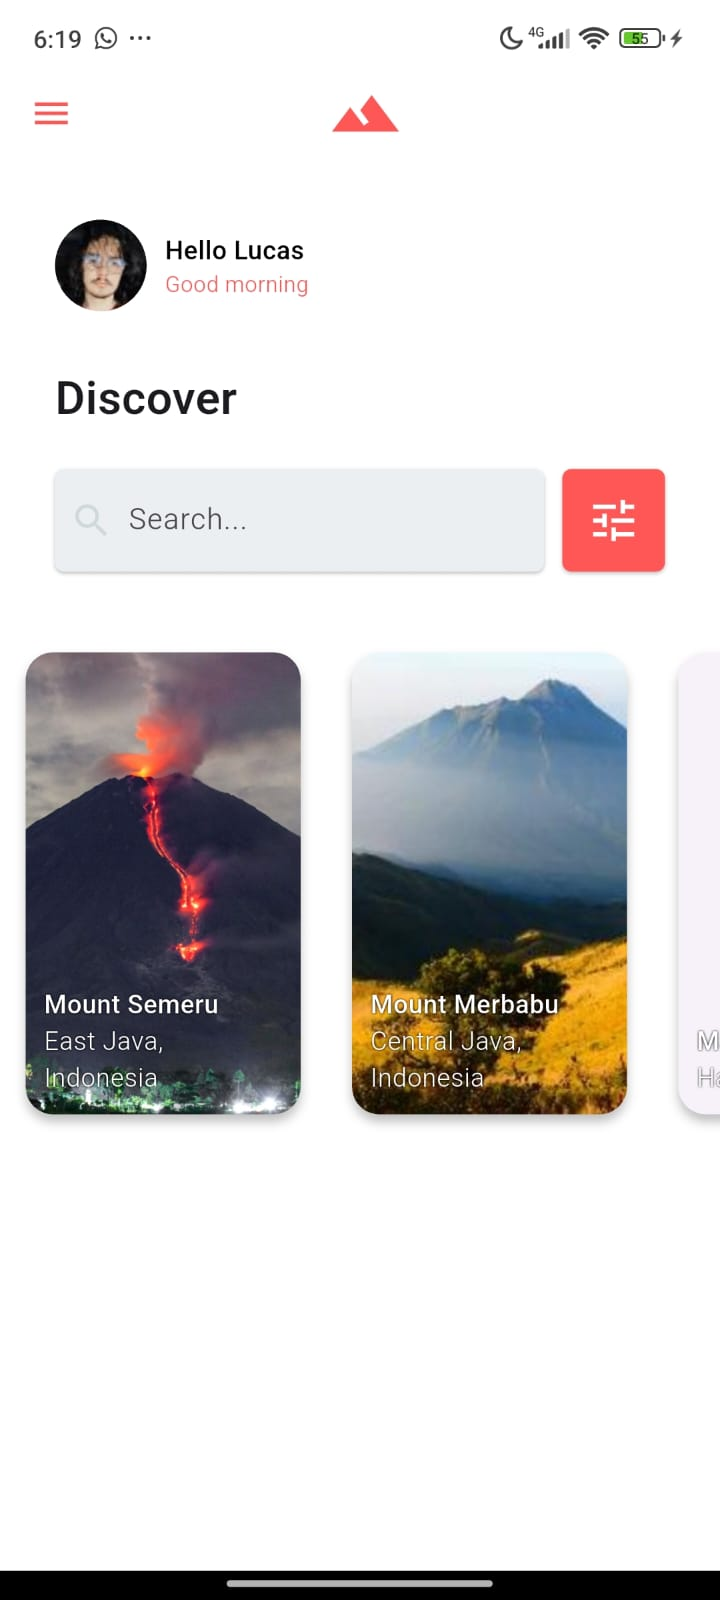
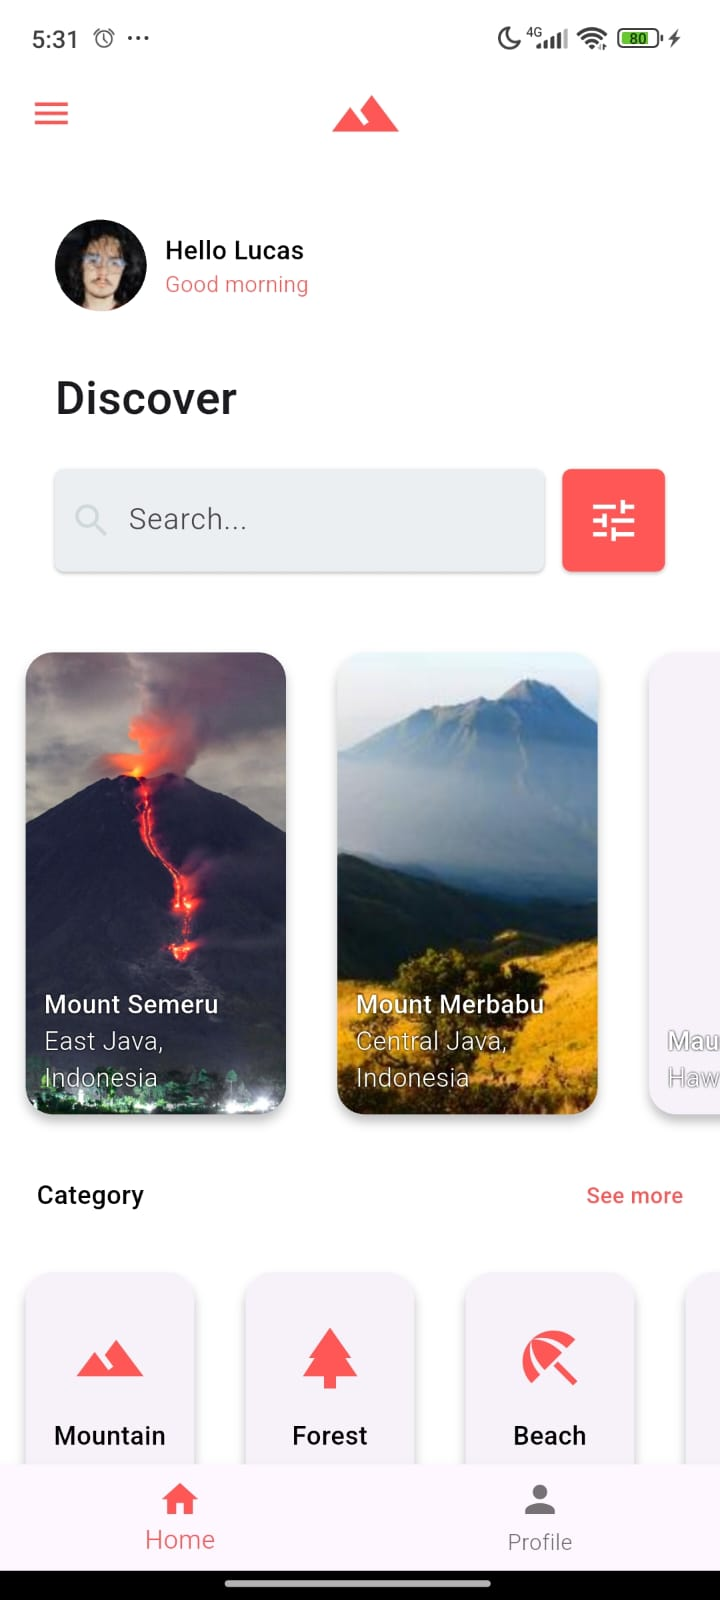
Add new photos and update README with new folder structure and features

diff --git a/README.md b/README.md
@@ -9,11 +9,15 @@
 - `AppCard` widget with image, title, and location
 - Basic search UI component (non-functional for now)
 - Modular folder structure
+- Profile page with avatar, description, achievements, and social media buttons
+- Scrollable achievements section with animated cards
+- Bottom navigation bar with navigation between pages (Home and Profile)
 
 ## 📁 Project Structure
 
 ```
 lib/
+├── assets/           # Asset files (e.g., images, icons)
 ├── data/             # Mock data (e.g., mount_items.dart)
 ├── model/            # Data models (e.g., MountModel)
 ├── pages/            # Pages and screens (e.g., HomePage)
@@ -58,9 +62,12 @@ lib/
 
 ![AppBar and List](lib/assets/screens/WanderFind.png)
 
-![Scrollable Cards](lib/assets/screens/home.jpeg)
-_AppBar with terrain icon and search input_
+![Home](lib/assets/screens/home.jpeg)
 
----
+![Profile](lib/assets/screens/profile.jpeg)
+
+## 👨💻 About the Developer
+
+This app was created by Lucas, a passionate mobile developer who loves building beautiful and functional apps using Flutter. Feel free to connect on social media for more updates and insights into future projects.
 
 Made with ❤ using Flutter — _Explore the heights with WanderFind_
